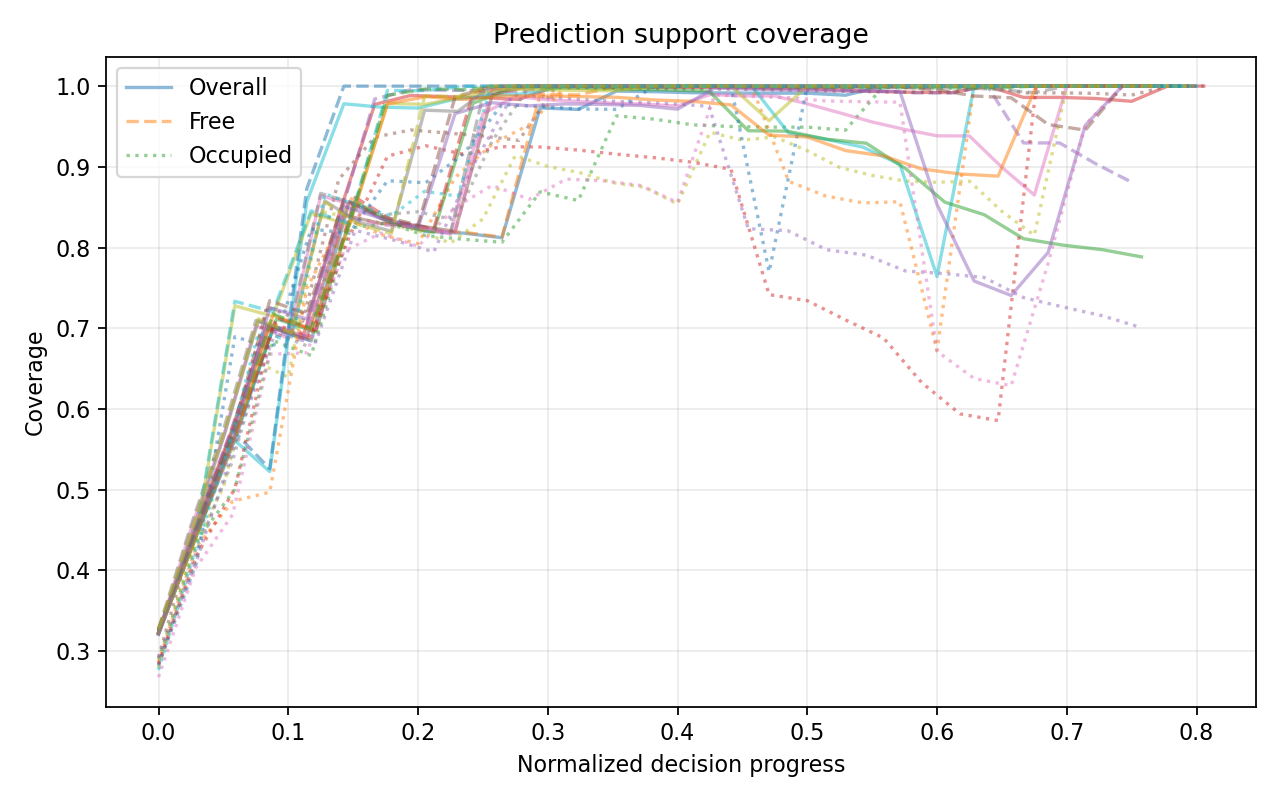
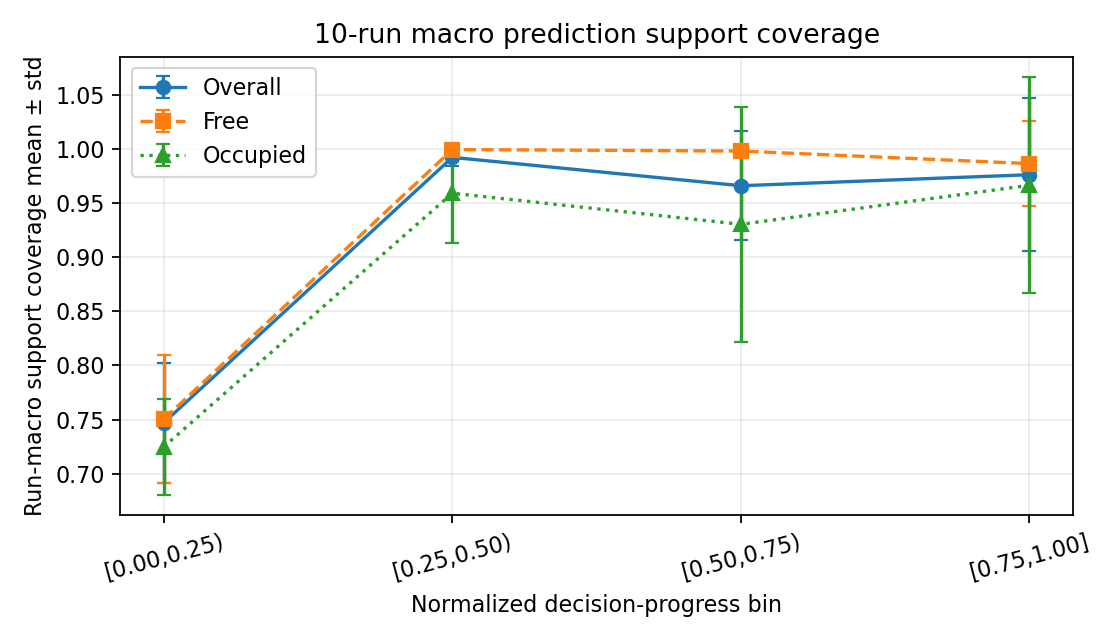
fix(mapex): address R004 offline review

diff --git a/mapex_lab/analysis/r004/evaluate_prediction_vs_final_observed.py b/mapex_lab/analysis/r004/evaluate_prediction_vs_final_observed.py
@@ -32,19 +32,37 @@ def pbin(x):
 def read_csv(p):
     with p.open(newline="",encoding="utf-8") as f:return list(csv.DictReader(f))
 def scalar(z,k): return np.asarray(z[k]).reshape(()).item()
+def artifact_path(run,value):
+    p=(run/value).resolve(); base=run.resolve()
+    if p!=base and base not in p.parents: raise ValueError(f"artifact escapes run directory: {value}")
+    return p
+def load_canvas(run,value,expected=None):
+    p=artifact_path(run,value)
+    if not p.is_file(): raise ValueError(f"missing canvas: {value}")
+    try:
+        with np.load(p,allow_pickle=False) as z:
+            required=("data","resolution","origin_x","origin_y","canvas_id")
+            if any(k not in z.files for k in required): raise ValueError("missing fixed-canvas metadata")
+            data=np.asarray(z["data"],dtype=np.int16); meta=(data.shape,float(scalar(z,"resolution")),float(scalar(z,"origin_x")),float(scalar(z,"origin_y")),str(scalar(z,"canvas_id")))
+    except Exception as exc: raise ValueError(f"invalid canvas {value}: {exc}") from exc
+    if data.ndim!=2 or not all(math.isfinite(x) for x in meta[1:4]) or meta[1]<=0 or not meta[4]: raise ValueError(f"invalid fixed-canvas semantics: {value}")
+    if expected is not None and meta!=expected: raise ValueError(f"fixed-canvas mismatch: {value}")
+    return data,meta,str(p.relative_to(run.resolve()))
 def final_snapshot(run):
     rows=read_csv(run/"snapshots.csv"); finals=[(i,r) for i,r in enumerate(rows) if r.get("event","").lower()=="final"]
     if len(finals)!=1: raise ValueError(f"{run.name}: expected one final row, got {len(finals)}")
-    i,r=finals[0]; p=run/r["canvas_map_file"]
-    fallback=False
-    if not p.is_file():
-        valid=[]
-        for j,x in enumerate(rows[:i]):
-            q=run/x.get("canvas_map_file","")
-            if q.is_file(): valid.append((j,x,q))
-        if not valid: raise ValueError(f"{run.name}: no defensible final observed snapshot")
-        j,r,p=valid[-1]; fallback=True
-    with np.load(p) as z:return np.asarray(z["data"],dtype=np.int16),str(p.relative_to(run)),fallback
+    decisions=read_csv(run/"decisions.csv")
+    if not decisions: raise ValueError(f"{run.name}: no decision canvas for canonical grid")
+    _,canonical,_=load_canvas(run,decisions[0]["canvas_map"])
+    i,r=finals[0]
+    try:
+        data,_,rel=load_canvas(run,r["canvas_map_file"],canonical); return data,rel,False
+    except ValueError:
+        for x in reversed(rows[:i]):
+            try:
+                data,_,rel=load_canvas(run,x.get("canvas_map_file",""),canonical); return data,rel,True
+            except ValueError: continue
+    raise ValueError(f"{run.name}: no valid canonical final/fallback snapshot")
 
 def prediction_canvas(run,row,shape):
     with np.load(run/row["raw_map"]) as z:
@@ -52,13 +70,18 @@ def prediction_canvas(run,row,shape):
     with np.load(run/row["canvas_map"]) as z:
         obs=np.asarray(z["data"],dtype=np.int16); cr=float(scalar(z,"resolution")); cx=float(scalar(z,"origin_x")); cy=float(scalar(z,"origin_y"))
     with np.load(run/row["mean_map"]) as z:
-        a=np.asarray(z["data"],dtype=np.float32); h=int(scalar(z,"source_height")); w=int(scalar(z,"source_width")); top=int(scalar(z,"pad_top")); left=int(scalar(z,"pad_left"))
+        required=("data","source_height","source_width","pad_top","pad_left","resolution","origin_x","origin_y")
+        if any(k not in z.files for k in required): raise ValueError("prediction artifact missing geometry")
+        a=np.asarray(z["data"],dtype=np.float32); h=int(scalar(z,"source_height")); w=int(scalar(z,"source_width")); top=int(scalar(z,"pad_top")); left=int(scalar(z,"pad_left")); pr=float(scalar(z,"resolution")); px=float(scalar(z,"origin_x")); py=float(scalar(z,"origin_y"))
         if (h,w)!=raw.shape: raise ValueError("prediction/raw shape mismatch")
+        if top<0 or left<0 or top+h>a.shape[0] or left+w>a.shape[1]: raise ValueError("prediction crop outside padded artifact")
         pred=a[top:top+h,left:left+w]
-    ratio=round(rr/cr)
-    if ratio<1 or not math.isclose(rr/cr,ratio,abs_tol=1e-6): raise ValueError("incompatible grids")
+    if not np.all(np.isfinite(pred)): raise ValueError("prediction contains non-finite values")
+    if not (math.isclose(pr,rr,abs_tol=1e-6) and math.isclose(px,rx,abs_tol=1e-6) and math.isclose(py,ry,abs_tol=1e-6)): raise ValueError("raw/prediction geometry provenance mismatch")
+    ratio=round(pr/cr)
+    if ratio<1 or not math.isclose(pr/cr,ratio,abs_tol=1e-6): raise ValueError("incompatible grids")
     expanded=np.repeat(np.repeat(pred,ratio,0),ratio,1); out=np.full(shape,np.nan,np.float32); support=np.zeros(shape,bool)
-    r0=round((ry-cy)/cr); c0=round((rx-cx)/cr); sr=max(0,-r0); sc=max(0,-c0); dr=max(0,r0); dc=max(0,c0)
+    r0=round((py-cy)/cr); c0=round((px-cx)/cr); sr=max(0,-r0); sc=max(0,-c0); dr=max(0,r0); dc=max(0,c0)
     nr=min(expanded.shape[0]-sr,shape[0]-dr); nc=min(expanded.shape[1]-sc,shape[1]-dc)
     if nr>0 and nc>0: out[dr:dr+nr,dc:dc+nc]=expanded[sr:sr+nr,sc:sc+nc]; support[dr:dr+nr,dc:dc+nc]=True
     return obs,out,support
@@ -92,6 +115,8 @@ def corr(x,y):
     a=np.asarray(x,float); b=np.asarray(y,float); ok=np.isfinite(a)&np.isfinite(b)
     if np.sum(ok)<2 or len(np.unique(a[ok]))<2 or len(np.unique(b[ok]))<2:return math.nan
     return float(spearmanr(a[ok],b[ok]).statistic)
+def unsupported_fraction(coverage):
+    return 1.0-float(coverage) if math.isfinite(float(coverage)) else math.nan
 
 def sensitivity_rows(run_id,samples,kind):
     eligible=[s for s in samples if len(s[1])>0]
@@ -177,8 +202,14 @@ def plot_lines(rows,out,macrobin):
         ax.set(xlabel="Normalized decision progress",ylabel="IoU",title=f"{rid} conditional quality"); ax.grid(alpha=.25); ax.legend(); fig.tight_layout(); fig.savefig(plots/f"{rid}_quality_vs_progress.png",dpi=160); plt.close(fig)
     fig,ax=plt.subplots(figsize=(7,4)); x=np.arange(len(macrobin)); y=[z["macro_iou_mean"] for z in macrobin]; e=[z["macro_iou_std"] for z in macrobin]
     ax.errorbar(x,y,yerr=e,marker="o",capsize=4); ax.set_xticks(x,[z["progress_bin"] for z in macrobin],rotation=15); ax.set(xlabel="Normalized decision-progress bin",ylabel="Run-macro IoU mean ± std",title="10-run macro conditional quality"); ax.grid(alpha=.25); fig.tight_layout(); fig.savefig(plots/"run_macro_quality_vs_progress.png",dpi=160); plt.close(fig)
-    one("support_coverage_vs_progress.png",[("support_coverage","Overall","-"),("free_support_coverage","Free","--"),("occupied_support_coverage","Occupied",":")],"Prediction support coverage","Coverage")
-    one("unsupported_fraction_vs_progress.png",[("support_coverage","Support coverage","-")],"Support coverage (unsupported = 1 - curve)","Coverage")
+    one("per_run_support_coverage_vs_progress.png",[("support_coverage","Overall","-"),("free_support_coverage","Free","--"),("occupied_support_coverage","Occupied",":")],"Per-run prediction support coverage","Coverage")
+    x=np.arange(len(macrobin)); labels=[z["progress_bin"] for z in macrobin]
+    fig,ax=plt.subplots(figsize=(7,4))
+    for key,label,style in (("support_coverage","Overall","o-"),("free_support_coverage","Free","s--"),("occupied_support_coverage","Occupied","^:")):
+        ax.errorbar(x,[z[key+"_mean"] for z in macrobin],yerr=[z[key+"_std"] for z in macrobin],fmt=style,capsize=3,label=label)
+    ax.set_xticks(x,labels,rotation=15); ax.set(xlabel="Normalized decision-progress bin",ylabel="Run-macro support coverage mean ± std",title="10-run macro prediction support coverage"); ax.grid(alpha=.25); ax.legend(); fig.tight_layout(); fig.savefig(plots/"support_coverage_vs_progress.png",dpi=160); plt.close(fig)
+    fig,ax=plt.subplots(figsize=(7,4)); means=[unsupported_fraction(z["support_coverage_mean"]) for z in macrobin]; stds=[z["support_coverage_std"] for z in macrobin]
+    ax.errorbar(x,means,yerr=stds,marker="o",capsize=4); ax.set_xticks(x,labels,rotation=15); ax.set(xlabel="Normalized decision-progress bin",ylabel="Run-macro unsupported fraction mean ± std",title="Unsupported future-observed fraction (1 - C)"); ax.grid(alpha=.25); fig.tight_layout(); fig.savefig(plots/"unsupported_fraction_vs_progress.png",dpi=160); plt.close(fig)
     one("support_size_vs_progress.png",[("E_count","Scoreable E","-"),("F_count","Target F","--")],"Support size","Cells")
     one("class_balance_vs_progress.png",[("E_occupied_fraction","Occupied fraction E","-"),("F_occupied_fraction","Occupied fraction F","--")],"Class balance","Occupied fraction")
     one("free_iou_vs_progress.png",[("free_iou","Free IoU","-")],"Free IoU","IoU")
@@ -200,16 +231,21 @@ def overlays(data_root,out):
 
 def main():
     ap=argparse.ArgumentParser(); ap.add_argument("data_root",type=Path); ap.add_argument("--output",type=Path,required=True); ap.add_argument("--inventory-only",action="store_true"); a=ap.parse_args()
-    inventory=[]; allrows=[]; sample_map={}
+    inventory=[]; allrows=[]; sample_map={}; exclusions=[]
     for rid in RUNS:
         run=a.data_root/"mapex_lab/experiments/mapex"/rid
-        rows,samples=analyze_run(run); inventory.append(dict(run_id=rid,decisions=len(rows),partial_support=sum(r["unsupported_count"]>0 for r in rows)))
-        allrows.extend(rows); sample_map[rid]=samples
+        try:
+            rows,samples=analyze_run(run); inventory.append(dict(run_id=rid,status="included",decisions=len(rows),partial_support=sum(r["unsupported_count"]>0 for r in rows)))
+            allrows.extend(rows); sample_map[rid]=samples
+        except Exception as exc:
+            exclusions.append(dict(run_id=rid,reason=str(exc))); inventory.append(dict(run_id=rid,status="excluded",reason=str(exc),decisions=0,partial_support=0)); sample_map[rid]=[]
     if a.inventory_only: print(json.dumps(inventory,indent=2)); return
     out=a.output; write_csv(out/"prediction_vs_final_observed_decisions.csv",allrows)
     runrows=[]
     for rid in RUNS:
-        rr=[x for x in allrows if x["run_id"]==rid]; q=dict(run_id=rid,decisions=len(rr),partial_support_decisions=sum(x["unsupported_count"]>0 for x in rr))
+        rr=[x for x in allrows if x["run_id"]==rid]
+        if not rr: continue
+        q=dict(run_id=rid,decisions=len(rr),partial_support_decisions=sum(x["unsupported_count"]>0 for x in rr))
         for m in ("support_coverage","free_support_coverage","occupied_support_coverage")+METRICS:
             v=np.array([x[m] for x in rr],float); v=v[np.isfinite(v)]; q[m+"_mean"]=float(v.mean()) if v.size else math.nan; q[m+"_n"]=int(v.size)
         q.update(spearman_macro_iou_vs_progress=corr([x["decision_progress"] for x in rr],[x["macro_iou"] for x in rr]),spearman_macro_iou_vs_log_support=corr([math.log(max(1,x["E_count"])) for x in rr],[x["macro_iou"] for x in rr]),spearman_macro_iou_vs_occupied_fraction=corr([x["E_occupied_fraction"] for x in rr],[x["macro_iou"] for x in rr]))
@@ -221,10 +257,10 @@ def main():
         total.extend(sensitivity_rows(rid,sample_map[rid],"total")); composition.extend(sensitivity_rows(rid,sample_map[rid],"class"))
     write_csv(out/"total_support_sensitivity.csv",total); write_csv(out/"class_composition_sensitivity.csv",composition)
     sper,smacro=sensitivity_bin_summary(total+composition); write_csv(out/"sensitivity_run_bin_medians.csv",sper); write_csv(out/"sensitivity_progress_bins.csv",smacro)
-    summary={"schema":"r004_prediction_vs_final_observed_v4","runs":len(runrows),"included_runs":list(RUNS),"excluded_runs":[],"decisions":len(allrows),"partial_support_decisions":sum(x["unsupported_count"]>0 for x in allrows),"zero_support_decisions":sum(x["E_count"]==0 and x["F_count"]>0 for x in allrows),"F_count":sum(x["F_count"] for x in allrows),"E_count":sum(x["E_count"] for x in allrows),"unsupported_count":sum(x["unsupported_count"] for x in allrows),"support_coverage_pooled":div(sum(x["E_count"] for x in allrows),sum(x["F_count"] for x in allrows)),"method":"V3+V4","threshold":"occupied iff p > 0.5","total_sensitivity_rows":len(total),"class_sensitivity_rows":len(composition)}
+    summary={"schema":"r004_prediction_vs_final_observed_v4","runs":len(runrows),"included_runs":[x["run_id"] for x in runrows],"excluded_runs":exclusions,"decisions":len(allrows),"partial_support_decisions":sum(x["unsupported_count"]>0 for x in allrows),"zero_support_decisions":sum(x["E_count"]==0 and x["F_count"]>0 for x in allrows),"F_count":sum(x["F_count"] for x in allrows),"E_count":sum(x["E_count"] for x in allrows),"unsupported_count":sum(x["unsupported_count"] for x in allrows),"support_coverage_pooled":div(sum(x["E_count"] for x in allrows),sum(x["F_count"] for x in allrows)),"method":"V3+V4","threshold":"occupied iff p > 0.5","total_sensitivity_rows":len(total),"class_sensitivity_rows":len(composition)}
     (out/"prediction_vs_final_observed_summary.json").write_text(json.dumps(summary,indent=2)+"\n")
     write_csv(out/"partial_zero_support_inventory.csv",[x for x in allrows if x["unsupported_count"]>0 or x["E_count"]==0])
-    provenance={"schema":"r004_provenance_v1","data_root":str(a.data_root.resolve()),"runs":list(RUNS),"final_snapshot_fallbacks":[x["run_id"] for x in runrows if any(z["fallback_final_snapshot"] for z in allrows if z["run_id"]==x["run_id"])],"exclusions":[],"method":"R004 V3 + accepted V4 support amendment","prediction_support":"artifact geometry only","seed":"SHA256 deterministic","resamples":100,"overlay_legend":{"gray":"already observed","blue":"future-observed target without prediction support","green":"supported correct class","red":"supported incorrect class","white":"outside displayed evidence"}}
+    provenance={"schema":"r004_provenance_v1","data_root":str(a.data_root.resolve()),"runs":list(RUNS),"final_snapshot_fallbacks":[x["run_id"] for x in runrows if any(z["fallback_final_snapshot"] for z in allrows if z["run_id"]==x["run_id"])],"exclusions":exclusions,"method":"R004 V3 + accepted V4 support amendment","prediction_support":"prediction-artifact geometry with raw-geometry provenance validation","seed":"SHA256 deterministic","resamples":100,"overlay_legend":{"gray":"already observed","blue":"future-observed target without prediction support","green":"supported correct class","red":"supported incorrect class","white":"outside displayed evidence"}}
     (out/"provenance_exclusions_fallbacks.json").write_text(json.dumps(provenance,indent=2)+"\n")
     plot_lines(allrows,out,macrobin); overlays(a.data_root,out)
     print(json.dumps(summary,indent=2))

diff --git a/mapex_lab/analysis/r004/test_evaluate_prediction_vs_final_observed.py b/mapex_lab/analysis/r004/test_evaluate_prediction_vs_final_observed.py
@@ -2,6 +2,11 @@ import csv, importlib.util, math, tempfile, unittest
 from pathlib import Path
 import numpy as np
 P=Path(__file__).with_name("evaluate_prediction_vs_final_observed.py"); S=importlib.util.spec_from_file_location("r004",P); r=S.loader.load_module()
+def canvas(path,shape=(3,3),resolution=.05,origin_x=0.,origin_y=0.,canvas_id="test_canvas"):
+ np.savez(path,data=np.full(shape,-1,int),resolution=resolution,origin_x=origin_x,origin_y=origin_y,canvas_id=canvas_id)
+def table(path,rows,fields):
+ with path.open("w",newline="") as f:
+  w=csv.DictWriter(f,fieldnames=fields); w.writeheader(); w.writerows(rows)
 class Tests(unittest.TestCase):
  def test_strict_threshold(self):
   m=r.metrics(np.array([.5,.50001]),np.array([0,1])); self.assertEqual(m["macro_iou"],1)
@@ -16,10 +21,15 @@ class Tests(unittest.TestCase):
   with tempfile.TemporaryDirectory() as td:
    d=Path(td); (d/"raw.npz").touch()
    np.savez(d/"raw.npz",data=np.full((1,1),-1),resolution=.1,origin_x=0.,origin_y=0.)
-   np.savez(d/"canvas.npz",data=np.full((3,3),-1),resolution=.05,origin_x=0.,origin_y=0.)
-   np.savez(d/"mean.npz",data=np.zeros((1,1),np.float32),source_height=1,source_width=1,pad_top=0,pad_left=0)
+   canvas(d/"canvas.npz")
+   np.savez(d/"mean.npz",data=np.zeros((1,1),np.float32),source_height=1,source_width=1,pad_top=0,pad_left=0,resolution=.1,origin_x=0.,origin_y=0.)
    obs,pred,support=r.prediction_canvas(d,{"raw_map":"raw.npz","canvas_map":"canvas.npz","mean_map":"mean.npz"},(3,3))
    self.assertEqual(int(support.sum()),4); self.assertTrue(np.all(pred[support]==0))
+ def test_prediction_geometry_mismatch_rejected(self):
+  with tempfile.TemporaryDirectory() as td:
+   d=Path(td); np.savez(d/"raw.npz",data=np.full((1,1),-1),resolution=.1,origin_x=0.,origin_y=0.); canvas(d/"canvas.npz")
+   np.savez(d/"mean.npz",data=np.zeros((1,1)),source_height=1,source_width=1,pad_top=0,pad_left=0,resolution=.1,origin_x=1.,origin_y=0.)
+   with self.assertRaisesRegex(ValueError,"geometry provenance mismatch"): r.prediction_canvas(d,{"raw_map":"raw.npz","canvas_map":"canvas.npz","mean_map":"mean.npz"},(3,3))
  def test_sensitivity_samples_only_scoreable_vectors(self):
   rec={"run_id":"x","decision_id":1,"decision_progress":0.,"progress_bin":"[0.00,0.25)","F_count":10,"E_count":4,"support_coverage":.4}
   rows=r.sensitivity_rows("x",[(rec,np.array([0.,.2,.8,1.]),np.array([0,0,1,1],bool))],"total")
@@ -27,8 +37,15 @@ class Tests(unittest.TestCase):
  def test_zero_support_coverage_retained(self): self.assertEqual(r.div(0,5),0); self.assertTrue(math.isnan(r.div(0,0)))
  def test_final_snapshot_fallback(self):
   with tempfile.TemporaryDirectory() as td:
-   d=Path(td); (d/"maps").mkdir(); np.savez(d/"maps/periodic.npz",data=np.zeros((1,1),int))
-   with (d/"snapshots.csv").open("w",newline="") as f:
-    w=csv.DictWriter(f,fieldnames=["event","canvas_map_file"]); w.writeheader(); w.writerow({"event":"periodic","canvas_map_file":"maps/periodic.npz"}); w.writerow({"event":"final","canvas_map_file":"maps/missing.npz"})
+   d=Path(td); (d/"maps").mkdir(); canvas(d/"decision.npz"); canvas(d/"maps/periodic.npz"); (d/"maps/final.npz").write_text("corrupt")
+   table(d/"decisions.csv",[{"canvas_map":"decision.npz"}],["canvas_map"])
+   table(d/"snapshots.csv",[{"event":"periodic","canvas_map_file":"maps/periodic.npz"},{"event":"final","canvas_map_file":"maps/final.npz"}],["event","canvas_map_file"])
    _,p,fb=r.final_snapshot(d); self.assertTrue(fb); self.assertEqual(p,"maps/periodic.npz")
+ def test_invalid_fallback_rejected(self):
+  with tempfile.TemporaryDirectory() as td:
+   d=Path(td); (d/"maps").mkdir(); canvas(d/"decision.npz"); canvas(d/"maps/periodic.npz",shape=(2,2)); (d/"maps/final.npz").write_text("corrupt")
+   table(d/"decisions.csv",[{"canvas_map":"decision.npz"}],["canvas_map"]); table(d/"snapshots.csv",[{"event":"periodic","canvas_map_file":"maps/periodic.npz"},{"event":"final","canvas_map_file":"maps/final.npz"}],["event","canvas_map_file"])
+   with self.assertRaisesRegex(ValueError,"no valid canonical"): r.final_snapshot(d)
+ def test_unsupported_fraction_is_one_minus_coverage(self):
+  self.assertAlmostEqual(r.unsupported_fraction(.714),.286); self.assertTrue(math.isnan(r.unsupported_fraction(math.nan)))
 if __name__=="__main__": unittest.main()

diff --git a/mapex_lab/docs/R004_CODEX_COMPLETION.md b/mapex_lab/docs/R004_CODEX_COMPLETION.md
@@ -1,7 +1,7 @@
 # R004 CODEX offline evaluator completion
 
 Date: 2026-09-23
-Task: R004-OFFLINE / H039
+Task: R004-OFFLINE / H039 + H040 review rework
 Maker: CODEX / W017
 Status: COMPLETE_PENDING_REVIEW
 Method: accepted V3 plus independently accepted V4 support amendment
@@ -19,16 +19,34 @@ Result root: `mapex_lab/analysis/r004/results/prediction_vs_final_observed_v1/`
 ## Validation
 
 - Python compile: PASS.
-- Focused evaluator suite: 10/10 PASS.
+- Focused evaluator suite: 13/13 PASS, including prediction/raw geometry
+  mismatch, corrupt-final fallback, invalid-fallback rejection, and `1-C`.
 - Dry-run inventory: 10 runs / 365 decisions.
 - Full execution: exit 0; all ten runs included; no exclusions or final-snapshot fallbacks.
-- Deterministic bounded rerun: `mpx_001` 35 decision records and 21 total-support sensitivity records byte/value equivalent in memory.
+- Determinism checks remain covered by the focused suite; the corrected full
+  rerun reproduced the prior decisions, runs, and summary hashes exactly.
 - Output count checks: 365 decision rows, 10 run rows, 40 run-bin rows,
   4 run-macro bins, 214 total-support sensitivity rows, 212 class-matched
-  sensitivity rows, 8 sensitivity-bin summaries, 17 figures, 30 overlays.
+  sensitivity rows, 8 sensitivity-bin summaries, 18 figures, 30 overlays.
 - `git diff --check`: PASS.
-- Visual QA: run-macro figure and early overlay inspected; overlay was cropped
-  to the evidence extent after QA exposed excessive fixed-canvas whitespace.
+- Visual QA: corrected run-macro support coverage and unsupported-fraction
+  figures inspected; overlay was cropped to the evidence extent after QA
+  exposed excessive fixed-canvas whitespace.
+
+## H040 corrections
+
+- Prediction support placement now uses geometry stored in each prediction
+  artifact and rejects any raw/prediction geometry mismatch.
+- FinalObserved now validates canonical path, 2-D shape, resolution, origin,
+  and canvas ID. A corrupt/invalid final snapshot falls back only to the latest
+  earlier snapshot that passes the same canonical validation; otherwise the run
+  is recorded as a technical exclusion.
+- Cohort figures now plot actual run-macro support coverage and actual
+  unsupported fraction (`1-C`). The earlier per-run curves remain separately
+  labelled.
+- Corrected full execution still includes 10/10 runs and 365 decisions. The
+  three core data artifacts below are byte-identical to the pre-review run;
+  provenance changed only to record the corrected geometry/validation method.
 
 ## V4 support inventory recomputed by final evaluator
 
@@ -65,7 +83,7 @@ Core hashes:
[5 lines of base64/hex data omitted]
 
 ## Review notes / limitations
 
